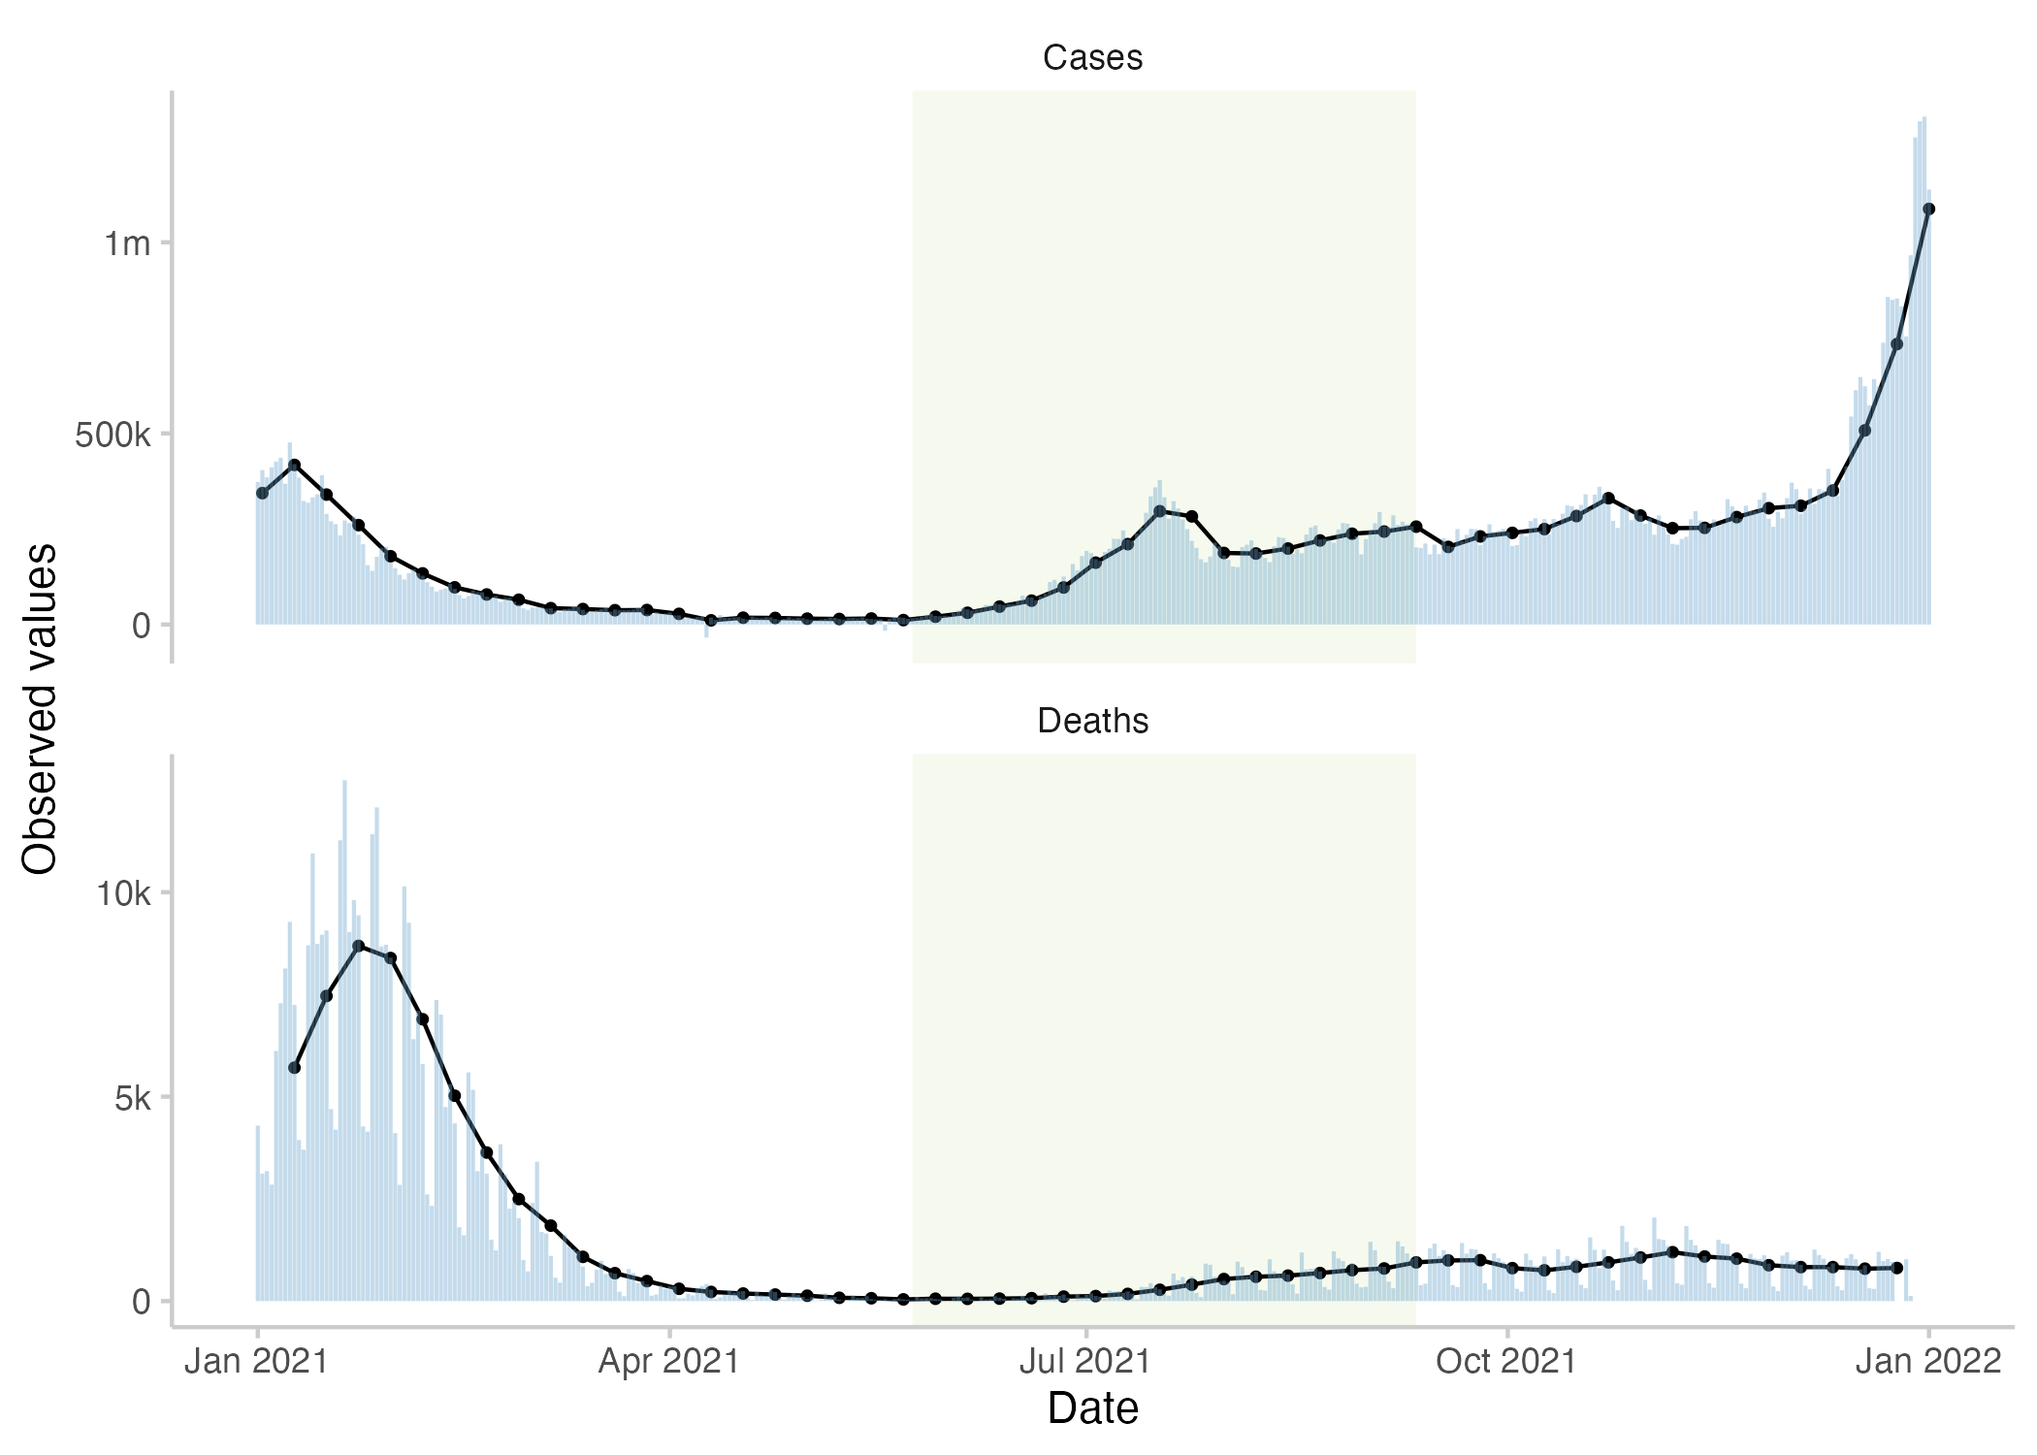
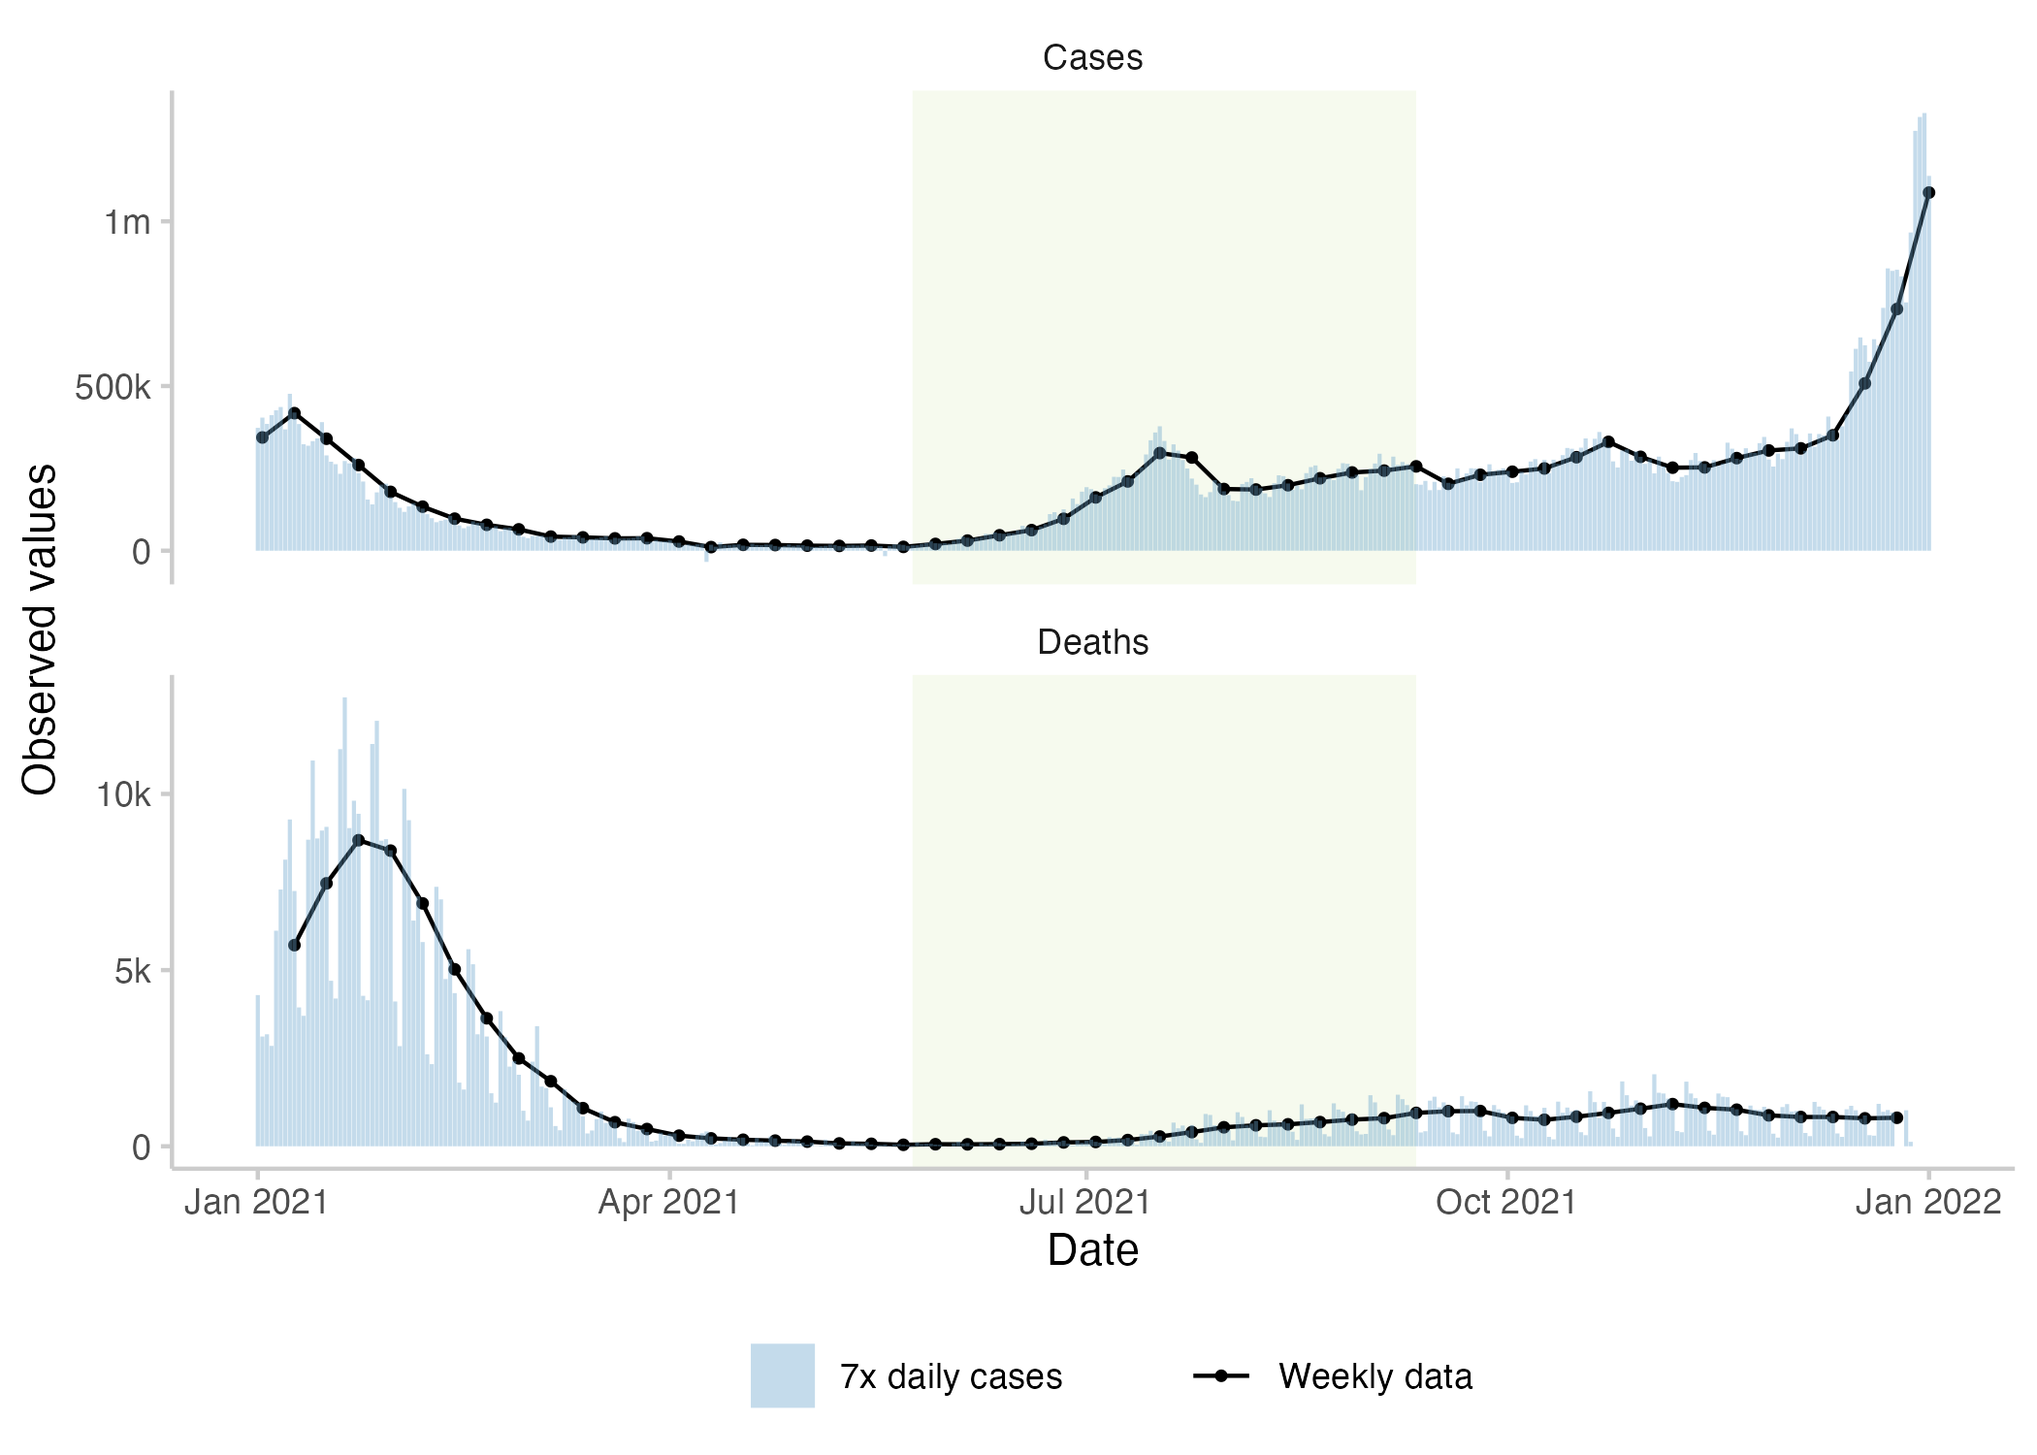
Update Figure 1 and correct some typos

diff --git a/manuscript/manuscript.tex b/manuscript/manuscript.tex
@@ -169,7 +169,7 @@ This study has been approved by the London School of Hygiene \& Tropical Medicin
 
 \subsection*{Observed values}
 
-The study period (forecasts were made between May 24 and August 16 2021 for targets between May 29 and September 11 2021) was characterised by an increase in the numbers of cases and deaths in the United Kingdom. Reported cases in particular rose rapidly compared to pre-study levels, with a peak on July 17 2021, followed by a trough and another subsequent increase in numbers. Death numbers remained almost constant in the first four weeks of the study period, followed by a steady increase until the end of the study period in September 2021. This increase in the case and death numbers coincides with the rise of the Delta variant in the UK in the beginning of May \citep{bastIncreasedRiskHospitalisation2021} as well as the  European Football Championship \citep{dehningImpactEuro20202023}. An overview of the reported case and death numbers is shown in Figure \ref{fig:overview-data}. 
+The study period (forecasts were made between May 24 and August 16, 2021, for targets between May 29 and September 11, 2021) was characterised by an increase in the number of cases and deaths in the United Kingdom. Reported cases in particular rose rapidly compared to pre-study levels, with a peak on July 17, 2021, followed by a trough and another subsequent increase in numbers. Death numbers remained almost constant in the first four weeks of the study period, followed by a steady increase until the end of the study period in September 2021. This increase in the case and death numbers coincides with the rise of the Delta variant in the UK at the beginning of May \citep{bastIncreasedRiskHospitalisation2021} as well as the  European Football Championship \citep{dehningImpactEuro20202023}. An overview of the reported case and death numbers is shown in Figure \ref{fig:overview-data}. 
 
 \begin{figure*}
 \centering
@@ -209,7 +209,7 @@ The median number of unique participants in any given week was 17, the minimum w
 
 \subsection*{Case forecasts}
 
-In the beginning of the study period, human forecasters as well as the Forecast Hub ensemble, consistently underpredicted case numbers (see Figure \ref{fig:forecasts-scores}A). All forecasting approaches overshot the peak in case numbers on July 17 2021, overpredicting case numbers severely in the three weeks after, followed again by a small tendency to underpredict when case numbers rose once more in the 4th week after the peak.
+At the beginning of the study period, human forecasters as well as the Forecast Hub ensemble, consistently underpredicted case numbers (see Figure \ref{fig:forecasts-scores}A). All forecasting approaches overshot the peak in case numbers on July 17, 2021, overpredicting case numbers severely in the three weeks after, followed again by a small tendency to underpredict when case numbers rose once more in the 4th week after the peak.
 
 All forecasting approaches exhibited underdispersion when predicting cases, meaning that forecasts on average were too narrow and not uncertain enough. Empirical coverage for case forecasts was below nominal coverage for all forecasting approaches for forecasts more than one week into the future (see Figure \ref{fig:performance}E,F). 
 For 50\% prediction intervals, empirical coverage was worst for the direct crowd forecasts (0.31), best for the $R_t$ forecasts (0.46) and in between for the Hub ensemble and the crowd ensemble (both 0.38, see Table \ref{tab:scores}). For 90\% prediction intervals, coverage was worst for the $R_t$ forecasts (0.62) and slightly better for the other approaches (all 0.69). Coverage for all forecasts deteriorated further with increasing forecast horizon (see Figure \ref{fig:performance}E,F). 
@@ -233,7 +233,7 @@ On the natural scale, the WIS as a measure of the absolute distance between fore
 
 \subsection*{Death forecasts} 
 
-In the first part of the study period, most forecasting approaches (albeit not the direct crowd forecasts), showed a tendency to overpredict the increase in death numbers (see Figure \ref{fig:forecasts-scores}B). All forecasting approaches started to underpredict death numbers four weeks after the peak in case numbers on July 17 2021, expecting a consequent drop in deaths that did not occur.
+In the first part of the study period, most forecasting approaches (albeit not the direct crowd forecasts), showed a tendency to overpredict the increase in death numbers (see Figure \ref{fig:forecasts-scores}B). All forecasting approaches started to underpredict death numbers four weeks after the peak in case numbers on July 17, 2021, expecting a consequent drop in deaths that did not occur.
 
 All forecasting approaches except the $R_t$ forecasts showed higher empirical coverage for deaths than for cases (see Figure \ref{fig:performance}). Forecasts from the Hub ensemble generally tended to be wider than the human forecasts (see Figures \ref{fig:forecasts-scores} and \ref{fig:performance}B,D). For 50\% prediction intervals, the Hub ensemble exceeded the nominal coverage noticeably (0.77) (see Table \ref{tab:scores}). $R_t$ forecasts failed to get close to nominal coverage (0.15), while the combined crowd ensemble and the direct forecasts had empirical coverage close to nominal coverage (both 0.54). For 90\% prediction intervals, the Hub ensemble again exceeded nominal coverage and covered all observations (1) while the $R_t$ forecasts again failed to get close to nominal coverage (0.46). The crowd ensemble exhibited some underdispersion (0.77) while the direct forcecasts almost reached nominal coverage for two week ahead forecasts of deaths (0.85). 
 
@@ -293,7 +293,7 @@ In this paper, we presented a follow-up study to \cite{bosseComparingHumanModelb
 Just like \citet{bosseComparingHumanModelbased2022} and \citet{farrowHumanJudgmentApproach2017}, this study struggled to retain a large number of participants. Focused public outreach efforts such as creating a dedicated website, announcing an official tournament, providing a public leaderboard, sending weekly emails with details on past performance and weekly announcements on Twitter, did noticeably increase participation compared to the previous study in Germany and Poland. Nevertheless, retaining participants beyond the initial recruitment proved challenging, and most forecasters only submitted a single forecast. \citet{mcandrewChimericForecastingCombining2022} had a higher number of participants, suggesting that making use of existing forecasting platforms that have access to a large existing user base and greater resources may be helpful in recruiting a larger number of participants, though these platforms lack the flexibility and software tooling to run a novel study of this kind in real-time as things stand.
 
 % Study period. 
-The study period was marked by an increase in both case and death numbers. Case numbers rose quickly compared to the pre-study period, peaked on July 17 2021, followed by a trough and a subsequent further increase. Forecasts displayed a familar pattern, where forecasters tended to underpredict while case numbers where rising, and overpredict while case numbers were falling, particularly following a peak. Death numbers were increasing more slowly than during the previous peak in January 2021, in line with beginning vaccination efforts and a greater natural immunity in the population. The peak in case numbers did not correspond to a peak in death numbers, suggesting some decoupling of case and death numbers. Forecasters tended to overpredict death numbers in the beginning, while underpredicting them in the end, expecting death numbers to fall after the peak in cases. The study period coincides with the rise of the Delta variant in the UK \citep{bastIncreasedRiskHospitalisation2021}, as well as the 2021 European Football Championship, which likely shifted the age distribution towards younger cases \citep{dehningImpactEuro20202023}.
+The study period was marked by an increase in both case and death numbers. Case numbers rose quickly compared to the pre-study period, peaking on July 17, 2021, followed by a trough and a subsequent further increase. Forecasts displayed a familiar pattern, where forecasters tended to underpredict while case numbers were rising, and overpredict while case numbers were falling, particularly following a peak. Death numbers were increasing more slowly than during the previous peak in January 2021, in line with the beginning of vaccination efforts and a greater natural immunity in the population. The peak in case numbers did not correspond to a peak in death numbers, suggesting some decoupling of case and death numbers such as would be expected from effects of immunity that are stronger in preventing severe disease than any symptoms. Forecasters tended to overpredict death numbers in the beginning, while underpredicting them in the end, expecting death numbers to fall after the peak in cases. The study period coincides with the rise of the Delta variant in the UK \citep{bastIncreasedRiskHospitalisation2021}, as well as the 2021 European Football Championship, which likely shifted the age distribution towards younger cases \citep{dehningImpactEuro20202023}.
 
 %Calibration
 In line with results from previous work \citep{bosseComparingHumanModelbased2022, sherrattPredictivePerformanceMultimodel2022}, we found almost all forecasts for cases to be underdispersed (i.e., too narrow/overconfident). Empirical coverage for death forecasts was higher than the corresponding coverage for cases for all forecasting approaches except the $R_t$ forecasts. 
@@ -304,7 +304,7 @@ For forecasts of deaths two weeks ahead, direct human forecasts and the combined
 
 In their original study, conducted in Germany and Poland, \citet{bosseComparingHumanModelbased2022} found that humans outperformed an ensemble of computational models when predicting cases, but not when predicting deaths. They hypothesised that computational models might have an advantage over human forecasters when predicting deaths, benefiting from the ability to model the delays and epidemiological relationships between different leading and lagged indicators. \citet{mcandrewChimericForecastingCombining2022} similarly found in their study that humans performed comparably to an ensemble of computational models for cases, but not for predictions of deaths of COVID-19. 
 Results in our study do not directly support this pattern, but given the low number of observations also do not provide strong evidence against it. In this study, the combined crowd ensemble performed better than the Hub ensemble on both cases and deaths on the log scale, and worse on the natural scale. Direct forecasts, which would be most comparable to the forecasts in \citep{bosseComparingHumanModelbased2022}, performed worse than the Hub ensemble on cases and better on deaths. 
-During the study period, the case fatality ratio (CFR) likely changed quite quickly compared to the pre-study period. One the one hand, the rise of the Delta variant in the UK, which was first discovered in the UK in March 2021, was estimated to have a higher CFR than previous variants \citep{bastIncreasedRiskHospitalisation2021, twohigHospitalAdmissionEmergency2022}. On the other hand, the ongoing COVID-19 vaccination and growing natural immunity in the population had decreasing effects on the CFR. In addition, the age distribution of cases changed over the course of the study period in Summer 2021, in parts related to the European Football Championship \citep{dehningImpactEuro20202023}. Overall, the CFR was lower than during previous peaks of COVID-19.
+During the study period, the case fatality ratio (CFR) likely changed quite quickly compared to the pre-study period. On the one hand, the rise of the Delta variant in the UK, which was first discovered in the UK in March 2021, was estimated to have a higher CFR than previous variants \citep{bastIncreasedRiskHospitalisation2021, twohigHospitalAdmissionEmergency2022}. On the other hand, the ongoing COVID-19 vaccination and growing natural immunity in the population had decreasing effects on the CFR. In addition, the age distribution of cases changed throughout the study period in Summer 2021, in parts related to the European Football Championship \citep{dehningImpactEuro20202023}. Overall, the CFR was lower than during previous peaks of COVID-19.
 One possible hypothesis for the relatively good performance of human forecasts for deaths compared to previous studies might be that some models submitted to the Forecast Hub may have been more negatively affected by the changes in CFR during the study period than human forecasters or have been slower to update. The present study only saw a steady increase in death numbers, which one could argue is relatively easy to predict, making it difficult to compare forecast performance with performance in other settings. A confounding factor, when comparing results from this study and the one in Germany and Poland directly, is that we used a median ensemble to combine individual forecasts here, while the earlier study used a mean ensemble. 
 
 % \paragraph{Rt forecasting}
@@ -321,7 +321,7 @@ Combining forecasts from "experts" and "non-experts" led to better performance f
 
 Past expert forecasts of COVID-19 \cite{recchiaHowWellDid2021} had found predictions from experts to outperform those of non-experts. In our study, an ensemble of self-reported "experts" outperformed an ensemble of "non-experts" when forecasting cases two weeks ahead, both on the log scale and on the natural scale. When forecasting deaths two weeks ahead, "experts" performed worse than "non-experts" on the log scale, but better on the natural scale. Forecasts for "experts" tended to be better calibrated than non-experts.  However results should be taken with care considering relatively low sample sizes (median of 11 "non-experts" for cases and 10 for deaths, median of 8 "experts" for cases and deaths) and given that expert status was self-reported. Furthermore, we only asked for professional involvement in a field related to infectious disease modelling, not specifically for familiarity with modelling of COVID-19 in the UK, and only offered participants a binary choice. However, as we used ad-hoc recruitment in our networks many of these self-identified experts are likely to be infectious disease modellers.
 
-It is plausible to hypothesise that the default baseline shown to forecasters in the app may have an influence on their predictions. One could also interpret the $R_t$-forecast as a way of showing a different baseline forecast to the forecaster compared to the direct forecast. In our study, the default was a naive forecast with median equal to the last value and uncertainty equal to the standard deviation of the last four changes in weekly log values. \cite{bosseComparingHumanModelbased2022} did not found conclusive evidence to that effect, but also did not analyse the question in detail. We suggest further research be done into potential priming effects that a default forecast can have on users. 
+It is plausible to hypothesise that the default baseline shown to forecasters in the app may influence their predictions. One could also interpret the $R_t$-forecast as a way of showing a different baseline forecast to the forecaster compared to the direct forecast. In our study, the default was a naive forecast with the median equal to the last value and uncertainty equal to the standard deviation of the last four changes in weekly log values. \cite{bosseComparingHumanModelbased2022} did not fnd conclusive evidence to that effect, but also did not analyse the question in detail. We suggest further research be done into potential priming effects that a default forecast can have on users. 
 
 % \paragraph{Susceptibility of results}
 Overall, results of our study should be taken with caution due to several important limitations. Firstly, our study was restricted to one location and to a relatively short period of thirteen weeks. Secondly, there were many confounding factors that likely influence results. These include the fact that different participants made forecasts at different points in time (with the median forecaster only submitting a single forecast) and that subgroups of interest (e.g. "experts", or $R_t$ forecasts) had different numbers of forecasters. 
